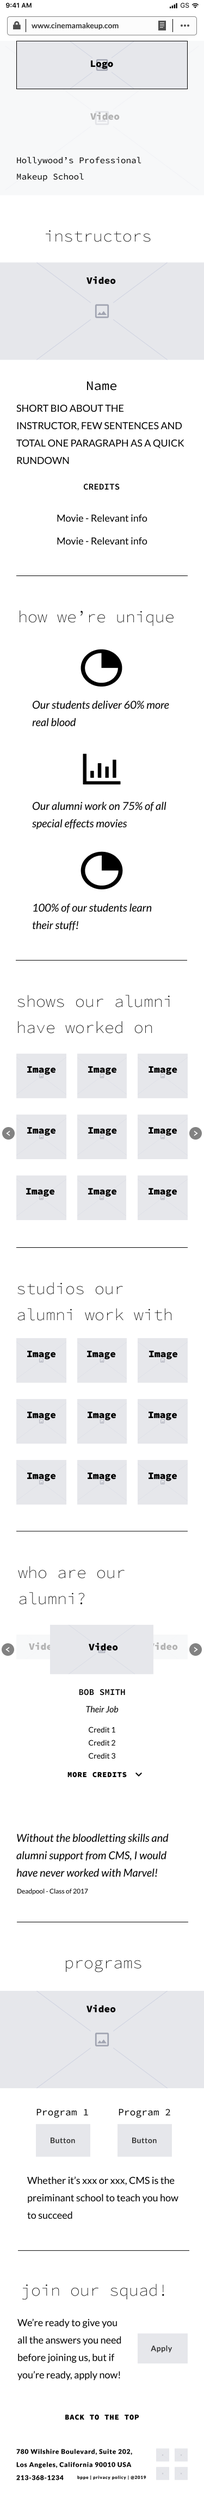
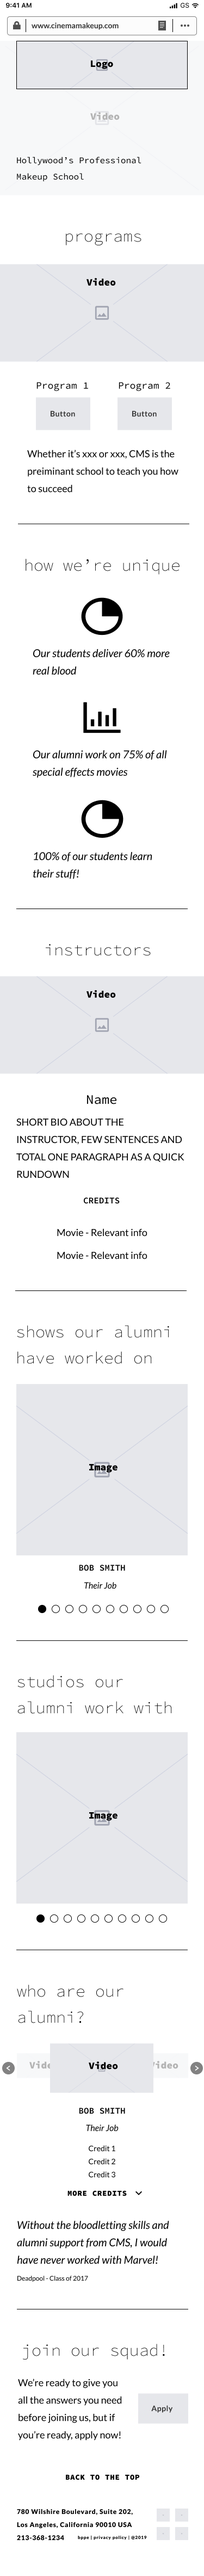
new copy, numbered headers, new final landing image

diff --git a/cinema-makeup-school-redesign.html b/cinema-makeup-school-redesign.html
@@ -19,7 +19,7 @@
         integrity="sha384-lZN37f5QGtY3VHgisS14W3ExzMWZxybE1SJSEsQp9S+oqd12jhcu+A56Ebc1zFSJ" crossorigin="anonymous">
     <!--	GOOGLE FONTS IBM PLEX SERIFF & SANS CONDENSED-->
     <link
-        href="https://fonts.googleapis.com/css?family=IBM+Plex+Sans+Condensed|IBM+Plex+Serif:300,400,400i,700&display=swap"
+        href="https://fonts.googleapis.com/css?family=IBM+Plex+Sans+Condensed|IBM+Plex+Serif:300,400,400i,700, 700i&display=swap"
         rel="stylesheet">
 
     <link rel="stylesheet" href="styles/styles.css">
@@ -67,114 +67,111 @@
                                 <li class="cms-list-answers">Figma</li>
                             </ul>
                     </summary>
-            </section>
-            <section class="cms-initial-research">
-                <h2 class="cms-overview-header">Overview</h2>
-                <p>I was brought in by Inward Eleven to help rethink the UX on CMS’s existing wordpress site. The
-                    site needed a modern design aesthetic, and better optimization for mobile and responsive web
-                    users. The client did some market research to find educational sights they liked.</p>
-                <!-- ADD WIREFRAME PICTURE-->
-                <img src="./Images/current-cms-wireframe.png" class="cms-wireframes" alt="current cms wireframe">
-                <h5 class="cms-sub-header">Initial Research</h5>
-                <p>We dug into the existing SEO to understand how the site was working
-                    for existing users. We then walked through CMS’s market research, putting together initial ideas of
-                    changes to implement. </p>
+                </section>
+                <section class="cms-initial-research">
+                    <h2 class="cms-numbered-header">1</h2>
+                    <h2 class="cms-overview-header">Overview</h2>
+                    <p>Inward Eleven hired me to rethink the UX on CMS’s existing wordpress site. It needed a more
+                        modern design aesthetic, and better optimization for mobile and responsive web users. The client
+                        did some market research finding educational sights as potential reference points.</p>
+                    <!-- ADD WIREFRAME PICTURE-->
+                    <img src="./Images/current-cms-wireframe.png" class="cms-wireframes" alt="current cms wireframe">
+                    <h5 class="cms-sub-header">Initial Research</h5>
+                    <p>We dug into the existing SEO to understand how the site was working
+                        for existing users. We then walked through CMS’s market research, putting together initial ideas
+                        of
+                        changes to implement. </p>
 
-            </section>
-            <section class="cms-problem">
-                <h3 class="cms-questions">Problems To Solve</h3>
-                <p>Meeting with the client, we discussed specific elements to change.</p>
-                <h5 class="cms-sub-header">Clean, Modern Design</h5>
-                <p>The site needed to be brought up to date to match current trends</p>
-                <h5 class="cms-sub-header">Information Architecture</h5>
-                <p>Redesign the menu, optimizing it for mobile. Clarify and re-organize sections of the menu to
-                    reduce clutter. </p>
-                <h5 class="cms-sub-header">Selling The School and Images</h5>
-                <p>Create a visual way to sell their instructors, the experience of their graduates, and breadth of
-                    that network. </p>
-                <h5 class="cms-sub-header">Data Input</h5>
-                <p>Many students contact the school and research them years ahead of potential enrollment. Those
-                    prospective students needed the ability to input their data and contact information, so the
-                    school could keep in contact with them. </p>
-                <br>
-                <p>After the meeting we had a map how the process should evolve, based on what was important. A
-                    responsive design, and delivering mocks for each size of mobile/tablet/desktop. </p>
-            </section>
-            <section class="cms-problem-solved">
-                <h3 class="cms-questions">Design Solutions</h3>
-                <h5 class="cms-sub-header">Overall Redesign</h5>
-                <p>Redesign key pages and create a template for future pages. We targeted the landing, forms,
-                    instuctor, course schedule, housing, blog, tuition and class pages</p>
-                <h5 class="cms-sub-header">Mobile Optimization</h5>
-                <p>Since the majority of users were on mobile devices, catering to them first was key. Typing on a
-                    phone is harder than a computer, so I found ways to ease that data input whenever possible with
-                    click wheels.
+                </section>
+                <section class="cms-problem">
+                    <h2 class="cms-numbered-header">3</h2>
+                    <h2 class="cms-overview-header">Problems To Solve</h2>
+                    <p>Meeting with the client, we discussed specific elements to change.</p>
+                    <h5 class="cms-sub-header">Clean Design</h5>
+                    <p>Bring up to date to match current trends</p>
+                    <h5 class="cms-sub-header">Information Architecture</h5>
+                    <p>Redesign & reorganize menu to reduce clutter and optimize it for mobile. </p>
+                    <h5 class="cms-sub-header">Selling The School and Images</h5>
+                    <p> Rethink visual ability to sell their instructors, who their graduates are, and what they’ve
+                        done. </p>
+                    <h5 class="cms-sub-header">Data Input</h5>
+                    <p>Often students contact the school and research them years ahead of potential enrollment. Can we
+                        make it easier for prospective students to input contact information, so the school could keep
+                        in contact with them. </p>
+                    <br>
+                    <p>I would create all this with responsive design, and deliver mocks for mobile/tablet/desktop. </p>
+                </section>
+                <section class="cms-problem-solved">
+                    <h2 class="cms-numbered-header">4</h2>
+                    <h3 class="cms-questions">Design Solutions</h3>
+                    <h5 class="cms-sub-header">Overall Redesign</h5>
+                    <p>Some of the key pages I redesigned included landing, forms, and instructors. More spacing was
+                        added throughout, and a grid system was inplemented.</p>
+                    <h5 class="cms-sub-header">Mobile Optimization</h5>
+                    <p>The majority of users are on mobile devices, catering to them first was key. In place of typing,
+                        to ease data input I designed click wheels and drop down forms.
+                    </p>
+                    <p>Research &#40;and common sense&rpar; shows users fingers and hands primarily at the bottom of a
+                        phone. To ease user discomfort I created a bottom static menu, including direct links via icons
+                        to the primary actions &#40;home, apply etc&rpar;.</p>
+                    <h5 class="cms-sub-header">Information Architecture</h5>
+                    <p>I reorganized and streamlined repetitive information, and replaced a dissapearing tab system with
+                        one where information more easily accesible.</p>
+                    <p>Chart sections were set up so the visual designer could create a dynamic representation of the
+                        alumni success.</p>
+                    <h5 class="cms-sub-header">Images/Videos</h5>
+                    <p>The school sells a visual medium, so these needed to be bold. Edge to edge mobile images were
+                        created for still images of the faculty, and course videos. The new grid system included
+                        heirarchy within the for the faculty members. Catering to a younger audience, we gave users the
+                        ability to swipe between images/videos.</p>
 
-                </p>
-                <p>Research &#40;and anyone who has used a phone&rpar; shows users fingers and hands primarily at
-                    the bottom of the phone, so I moved the menu on mobile to a bottom static position to ease
-                    potential user discomfort. I also created direct links via icons to the primary actions (home,
-                    apply etc).</p>
-                <h5 class="cms-sub-header">Information Architecture</h5>
-                <p>I reorganized the menu information to be more streamlined, and while it addressed the issues, the
-                    first desktop pass didn’t resemble the exact design what they wanted. So that needed a second
-                    pass to rethink and pull from one of their references, which then worked perfectly for the
-                    client.</p>
-                <h5 class="cms-sub-header">Images - Selling The School</h5>
-                <p>Particularly because the school sells a visual medium, these needed to be bold. Edge to edge
-                    image sections were created for mobile for still images of the faculty, and videos explaining
-                    the
-                    courses. A system was also created, setting things into a grid format, and setting a heirarchy
-                    within the faculty members. Because they cater to a younger audience. we also gave the user an
-                    ability to swipe between images/videos.</p>
-                <p>To show the story of their alumni success, charts were set up that would visualize the numbers
-                    they wanted to show. </p>
+                </section>
+                <section class="cms-end-result">
+                    <h2 class="cms-numbered-header">5</h2>
+                    <h3 class="cms-questions">End Result</h3>
+                    <img src="/Images/cms-final-mobile-landing.png" class="cms-wireframes"
+                        alt="cms final mobile landing">
+                    <p>I only focused on the low-fidelity structure, so full redesign is still in process, as a specific
+                        visual designer was also hired to create brand specific artifacts. But the client was very
+                        excited with these designs.</p>
+                    <p>They really loved the forward thinking for the mobile menu and data input. Several of their
+                        examples had a very dynamic visual videos on the landing, where readbility could be an issue. So
+                        I made sure our text readbility over any artifacts wouldn’t be an issue.
+                    </p>
+                    <p>While the initial desktop menu addressed the structural needs, it didn’t resemble the exact
+                        design what they wanted. So that was rethought on a second pass, and I went back to their
+                        reference points. The next pass worked perfectly for the client.</p>
+                    <p>Getting good client direction is incredibly helpful. When the desktop menu wasn’t up to snuff for
+                        them, they were able to be specific with what they wanted, making it easier to implement the
+                        desired changes.</p>
+                    <p>Detail and brand knowledge created a sense of comfort for the client. Using their tested copy and
+                        adding new on-brand UX copy personalizes it more than lorem ipsum text.
+                        And putting their site address in the browser bar further solidified that feeling
+                    </p>
+                    <!-- ADD WIREFRAME -->
+                </section>
 
-            </section>
-            <section class="cms-end-result">
-                <h3 class="cms-questions">End Result</h3>
-                <img src="/Images/cms-final-mobile-landing.png" class="cms-wireframes" alt="cms final mobile landing">
-                <p>I only focused on the low-fidelity structure, so full redesign is still in process. But the
-                    client was very excited with these designs. They were then handed off to a visual designer,
-                    hired to create animations specific to the brand for the final design (blood drippingto fill in
-                    chart numbers, monster hands as menu icons etc). </p>
-                <p>They really loved the forward thinking on mobile, of a menu pinned to the bottom, and the click
-                    wheels for data input ease. Several of the sites also had a very dynamic visual site, so I
-                    wanted to make sure if we used a similar format, that text readbility over images and video
-                    wouldn’t be an issue.
+                <!-- ADD TOP LINK -->
+                <h3 class="to-top"> <a href="#cms-case-study-title">Back To Top</a></h3>
+            </div>
+        </main>
+        <!-- FOOTER -->
+        <footer>
+            <ul class="contact-info">
+                <li>
+                    <a href="mailto:matt@mattbass.design" class="email" target="_blank"> <span
+                            style="color: #f2f2f2;"><i class="fas fa-envelope fa-3x"></i></span></a> </li>
 
-                </p>
-                <p>Getting good client direction is also incredibly helpful, so when the desktop menu wasn’t up to
-                    snuff for them, specifics as to what needed to change made it easier to implement the desired
-                    changes</p>
-                <p>Adding detail down to the little things, and brand knowledge creates a sense of comfort for the
-                    client. Creating “cheeky” UX copy felt more personalized than lorem ipsum text.
-                    Putting their site address in the browser bar further personalizes the design for the client.
-                </p>
-                <!-- ADD WIREFRAME -->
-            </section>
+                <li><a href="https://www.linkedin.com/in/mattabass/" class="linkedin" target="_blank">
+                        <span style="color: #f2f2f2;">
+                            <i class="fab fa-linkedin fa-3x"></i></span></a>
+                </li>
 
-            <!-- ADD TOP LINK -->
-            <h3 class="to-top"> <a href="#cms-case-study-title">Back To Top</a></h3>
-    </div>
-    </main>
-    <!-- FOOTER -->
-    <footer>
-        <ul class="contact-info">
-            <li>
-                <a href="mailto:matt@mattbass.design" class="email" target="_blank"> <span style="color: #f2f2f2;"><i
-                            class="fas fa-envelope fa-3x"></i></span></a> </li>
+                <li> <a href="https://twitter.com/TheMattBass" class="twitter fa-3x" target="_blank"><span
+                            style="color: #f2f2f2;"><i class="fab fa-twitter-square"></i></span></a></li>
 
-            <li><a href="https://www.linkedin.com/in/mattabass/" class="linkedin" target="_blank">
-                    <span style="color: #f2f2f2;">
-                        <i class="fab fa-linkedin fa-3x"></i></span></a>
-            </li>
-
-            <li> <a href="https://twitter.com/TheMattBass" class="twitter fa-3x" target="_blank"><span
-                        style="color: #f2f2f2;"><i class="fab fa-twitter-square"></i></span></a></li>
-
-        </ul>
-    </footer>
+            </ul>
+        </footer>
     </div>
     <script src="" async defer></script>
     <script>

diff --git a/styles/styles.css b/styles/styles.css
@@ -1756,7 +1756,7 @@ footer {
     padding: 2rem 0 1rem 0;
 }
 
-/* CINEMA MAKE UP SCHOOL REDESIGN */
+/* CINEMA MAKE UP SCHOOL REDESIGN - MOBILE */
 
 .cms-content-borders{
     margin: auto;
@@ -1766,6 +1766,11 @@ footer {
 .cms-overview{
     padding: 2rem 0;
 }
+.cms-numbered-header{
+    font-weight: 700;
+    font-style: italic;
+    text-align: center;
+}
 
 .cms-overview-header{
     align-items: center;
@@ -1774,7 +1779,7 @@ footer {
     /* letter-spacing: 1rem; */
     padding: 2rem 0;
     text-align: center;
-    text-transform: uppercase;
+    text-transform: capitalize;
     /*header line below 1 of 3 https://www.trysmudford.com/blog/css-header-legend */
     width: 100%;
 }
